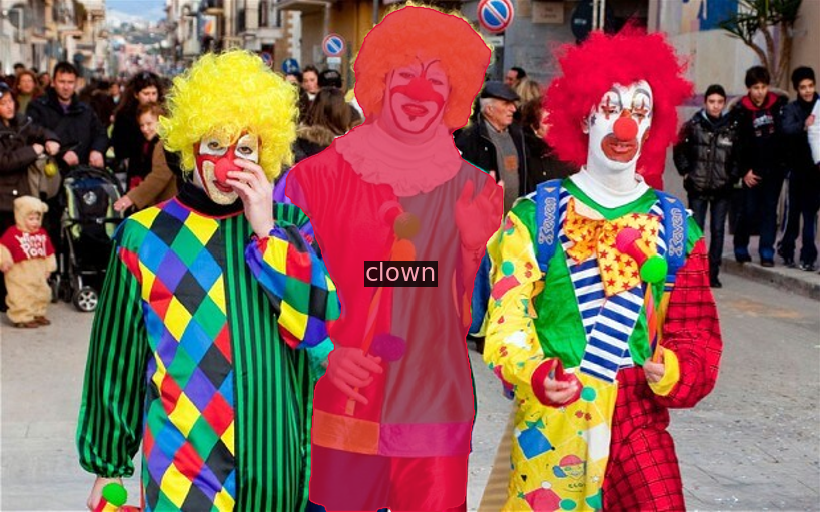
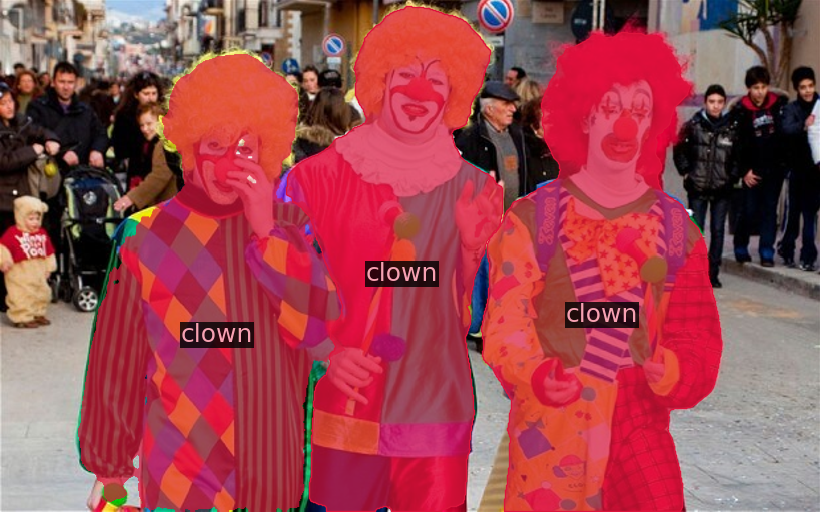
support multiple output masks

diff --git a/refimg_inference.py b/refimg_inference.py
@@ -57,7 +57,6 @@ def main():
     colors_list = [(np.array(color['color'])/255).tolist() for color in COCO_CATEGORIES] + [[1, 1, 1]]
 
     # inference main
-
     @torch.no_grad()
     def handle_refimg():
         model.model.task_switch['visual'] = True
@@ -88,6 +87,7 @@ def main():
 
         return outputs_refimg
     
+    # TODO: think about multiple ref images
     with torch.autocast(device_type='cuda', dtype=torch.float16):
         outputs_refimg = handle_refimg()
 
@@ -116,15 +116,19 @@ def main():
         s_emb = results['pred_pvisuals']
         pred_masks = results['pred_masks']
 
+        # v_emb is the output feature of object masks in image
+        # s_emb is the output feature of mask in ref image
+        # TODO: maybe we can use a similarity function instead of simple matrix multiplication below
         pred_logits = v_emb @ s_emb.transpose(1,2)
-        logits_idx_y = pred_logits[:,:,0].max(dim=1)[1]
-        logits_idx_x = torch.arange(len(logits_idx_y), device=logits_idx_y.device)
-        logits_idx = torch.stack([logits_idx_x, logits_idx_y]).tolist()
-        pred_masks_pos = pred_masks[logits_idx]
-        pred_class = results['pred_logits'][logits_idx].max(dim=-1)[1]
+        # apply sigmoid and threshold
+        sigmoid_pred_logits = torch.nn.Sigmoid()(pred_logits[:,:,0])
+        logits_idx_y = (sigmoid_pred_logits > 0.4).nonzero(as_tuple=True)[1]
+        # get mask and class idx
+        pred_masks_pos = pred_masks[:, logits_idx_y]
+        pred_class = results['pred_logits'][:, logits_idx_y].max(dim=-1)[1][0]
 
-        pred_masks_pos = (F.interpolate(pred_masks_pos[None,], image_size[-2:], mode='bilinear')[0,:,:data['height'],:data['width']] > 0.0).float().cpu().numpy()
-        texts = [all_classes[pred_class[0]]]
+        # seems upsize the masks
+        pred_masks_pos = (F.interpolate(pred_masks_pos, image_size[-2:], mode='bilinear')[0,:,:data['height'],:data['width']] > 0.0).float().cpu().numpy()
 
         for idx, mask in enumerate(pred_masks_pos):
             # color = random_color(rgb=True, maximum=1).astype(np.int32).tolist()
@@ -132,7 +136,6 @@ def main():
             demo = visual.draw_binary_mask(mask, color=colors_list[pred_class[0]%133], text=out_txt)
         res = demo.get_image()
         torch.cuda.empty_cache()
-        # return Image.fromarray(res), stroke_inimg, stroke_refimg
         return Image.fromarray(res)
 
     for image_file in os.listdir(image_dir):
